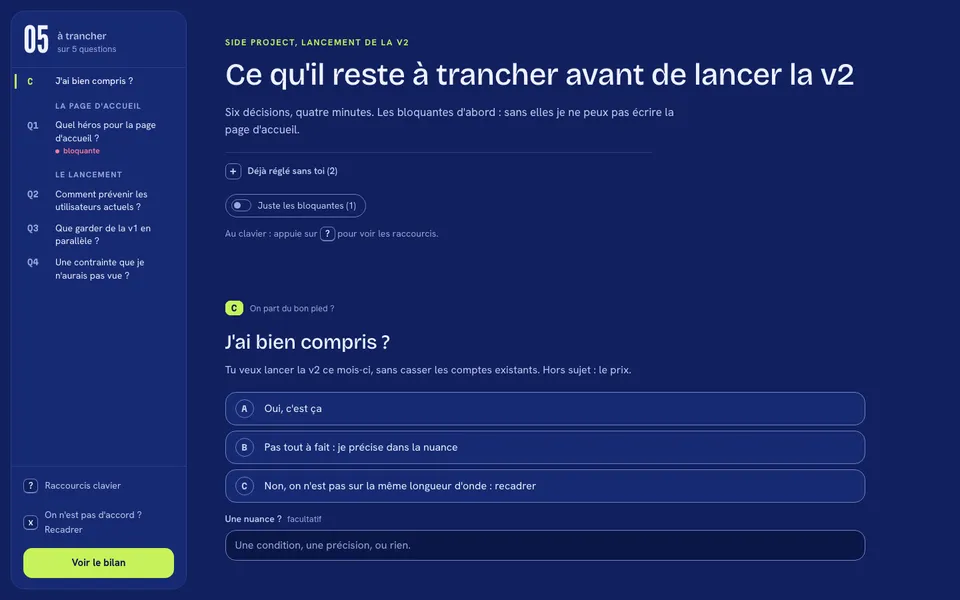
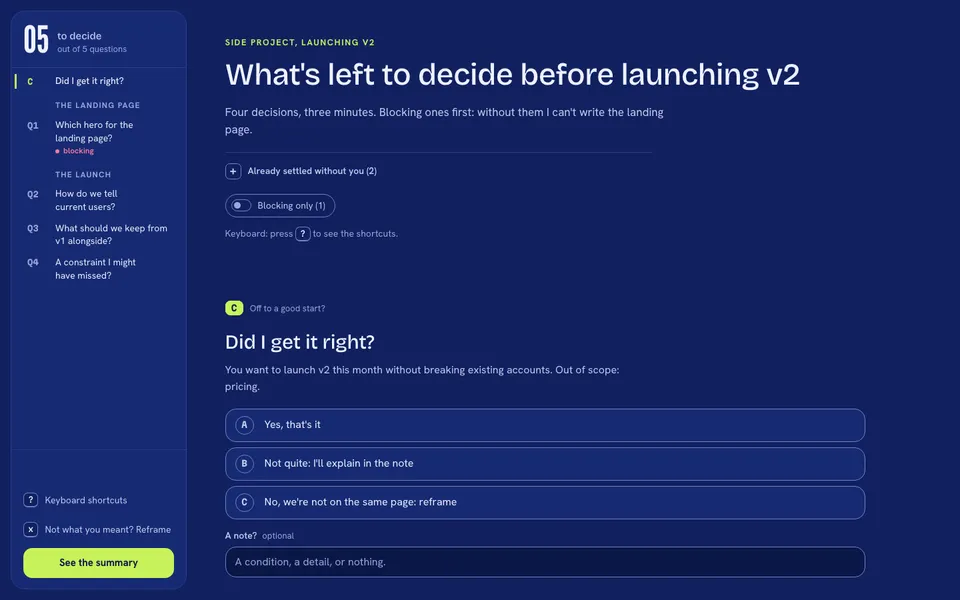
docs: English README and changelog, screenshots from an English quiz (1.8.0)

diff --git a/README.md b/README.md
@@ -2,119 +2,122 @@
 
 # /quizz
 
-**Les questions en attente deviennent un quiz cliquable. Claude applique tes réponses.**
+**Pending questions become a clickable quiz. Claude applies your answers.**
 
-Un plugin Claude Code : au lieu d'un pavé de questions dans le terminal, Claude publie une page où tu tranches en quelques clics, avec ses recos, ce que chaque choix implique, et des visuels rendus pour de vrai.
+A Claude Code plugin: instead of a wall of questions in the terminal, Claude publishes a page where you decide in a few clicks, with its recommendations, what each choice implies, and visuals that are actually rendered.
 
 [![version](https://img.shields.io/github/v/release/AThevon/quizz?label=version&color=7f8cff&style=flat-square)](https://github.com/AThevon/quizz/releases)
-[![licence](https://img.shields.io/github/license/AThevon/quizz?label=licence&color=7f8cff&style=flat-square)](LICENSE)
+[![license](https://img.shields.io/github/license/AThevon/quizz?label=license&color=7f8cff&style=flat-square)](LICENSE)
 [![Claude Code](https://img.shields.io/badge/Claude%20Code-plugin-d97757?style=flat-square)](https://docs.claude.com/en/docs/claude-code/plugins)
-[![artefacts](https://img.shields.io/badge/claude.ai-artefacts-1f2440?style=flat-square)](https://claude.ai)
-[![python](https://img.shields.io/badge/python-3%2C%20sans%20d%C3%A9pendance-3776ab?style=flat-square)](#prérequis)
-[![thèmes](https://img.shields.io/badge/th%C3%A8mes-5%20livr%C3%A9s-ff86b4?style=flat-square)](#thèmes)
-[![dernier commit](https://img.shields.io/github/last-commit/AThevon/quizz?label=dernier%20commit&color=33c2a4&style=flat-square)](https://github.com/AThevon/quizz/commits/main)
+[![artifacts](https://img.shields.io/badge/claude.ai-artifacts-1f2440?style=flat-square)](https://claude.ai)
+[![python](https://img.shields.io/badge/python-3%2C%20no%20dependencies-3776ab?style=flat-square)](#requirements)
+[![themes](https://img.shields.io/badge/themes-5%20built%20in-ff86b4?style=flat-square)](#themes)
+[![interface](https://img.shields.io/badge/interface-English%20%7C%20French-33c2a4?style=flat-square)](#in-the-page)
+[![last commit](https://img.shields.io/github/last-commit/AThevon/quizz?label=last%20commit&color=33c2a4&style=flat-square)](https://github.com/AThevon/quizz/commits/main)
 
-<img src="assets/readme/hero-homie.webp" alt="Un quiz /quizz dans le thème homie : le sommaire à gauche, une question avec deux variantes de page d'accueil dessinées, la reco de Claude." width="900">
+<img src="assets/readme/hero-homie.webp" alt="A /quizz quiz in the homie theme: the question overview on the left, a question with two drawn landing page variants, Claude's pick." width="900">
 
 </div>
 
-## Pourquoi
+## Why
 
-Quand une tâche a cinq décisions en suspens, les poser dans le terminal donne un pavé qu'on lit en diagonale. `/quizz` en fait une page : une question par décision, des options courtes, la reco de Claude, et ce qu'un choix coûte avant que tu le prennes. Tu réponds en deux minutes, Claude relit, applique, et écrit dans la page ce qu'il a fait.
+When a task has five decisions pending, asking them in the terminal gives you a block of text you end up skimming. `/quizz` turns it into a page: one question per decision, short options, Claude's pick, and what a choice costs before you make it. You answer in two minutes, Claude reads your answers, applies them, and writes in the page what it did.
 
-Pour quatre questions ou moins, Claude les pose directement dans le terminal. Au-delà, ou dès qu'un choix se regarde (une maquette, une palette), il te propose un quiz.
+For four questions or fewer, Claude asks them right in the terminal. Beyond that, or as soon as a choice is something you need to look at (a mockup, a palette), it offers you a quiz.
 
-## Comment ça marche
+## How it works
 
-1. **Claude rassemble ce qui lui manque** : les choix qui lui reviennent pour avancer, groupés, les bloquants d'abord, chacun avec sa reco.
-2. **Il publie le quiz** dans un artefact claude.ai : tu cliques, tu nuances, tu laisses Claude trancher où ça t'est égal, puis « Envoyer mes réponses ».
-3. **Il applique** : il relit tes réponses depuis la page, fait le travail, et y écrit ce qu'il a appliqué, ses prédictions sur tes réponses et la suite possible.
+1. **Claude gathers what it's missing**: the choices it needs from you to move forward, grouped, blocking ones first, each with its pick.
+2. **It publishes the quiz** as a claude.ai artifact: you click, add a note where needed, leave it to Claude where you don't mind, then "Send my answers".
+3. **It applies**: it reads your answers back from the page, does the work, and writes there what it applied, its predictions about your answers and what could come next.
 
-## Installer
+## Install
 
-Dans Claude Code :
+In Claude Code:
 
 ```
 /plugin marketplace add AThevon/quizz
 /plugin install quizz@quizz
 ```
 
-Puis relance Claude Code (ou `/reload-plugins`). La première fois qu'un quiz s'ouvre, claude.ai demande l'accord pour que la page puisse poser des questions à Claude : accepte.
+Then restart Claude Code (or `/reload-plugins`). The first time a quiz opens, claude.ai asks for permission to let the page ask Claude questions: accept.
 
-Pour recevoir les nouvelles versions : `/plugin`, onglet Marketplaces, `quizz`, Enable auto-update.
+To get new versions: `/plugin`, Marketplaces tab, `quizz`, Enable auto-update.
 
-## Commandes
+## Commands
 
-| commande | ce qu'elle fait |
+| command | what it does |
 |---|---|
-| `/quizz` | un quiz sur les questions ouvertes de la session. Claude te le propose aussi tout seul quand il en a plusieurs |
-| `/quizz <sujet>` | un quiz sur un sujet précis |
-| « à plusieurs » | au lancement ou plus tard : le quiz devient partageable, avec relecture et arbitrage des divergences |
-| `/quizz thème` | choisis l'apparence de tes quiz parmi les thèmes livrés, sur un aperçu |
-| `/quizz thème <description>` | Claude te propose trois thèmes sur mesure, tu gardes celui qui te plaît |
+| `/quizz` | a quiz on the open questions of the session. Claude also offers it on its own when it has several |
+| `/quizz <topic>` | a quiz on a specific topic |
+| "with others" | at launch or later: the quiz becomes shareable, with review and settling of disagreements |
+| `/quizz theme` | pick how your quizzes look among the built-in themes, from a preview |
+| `/quizz theme <description>` | Claude suggests three custom themes, you keep the one you like |
 
-## Dans la page
+## In the page
 
-**Répondre**
-- Une réponse en un clic, une nuance si besoin, « À toi de voir » pour laisser Claude trancher, « J'y tiens / Peu importe ».
-- Des visuels quand la question se regarde : Claude dessine les variantes (maquette, palette, mise en page, schéma), rendues pour de vrai sur chaque option, ou y met une capture. Chacun garde sa forme, un clic l'agrandit. Avant de publier, Claude les rend dans Chrome sans écran et mesure ce qui cloche (débordement, texte coupé, contraste).
-- Un sommaire qui montre ce qui reste à trancher, avec un seul signal pour ce qui demande ton attention.
-- Des questions qui apparaissent selon tes réponses, des questions bloquantes, et le mode « Juste les bloquantes ».
-- Tout au clavier : `a` `b` `c` pour choisir, `r` pour la reco, `j` `k` pour avancer, `?` pour l'aide.
+The quiz is written in your language. The page interface exists in English and in French: Claude sets it from the language you use with it.
 
-**Comprendre**
-- Creuser (`q`) : demande à Claude d'expliquer une question sans quitter la page. Sa réponse s'écrit mot à mot, mise en page, puis se copie.
-- Recadrer (`x`) : si le quiz part de travers, dis ce qui cloche, Claude réécrit les questions.
-- Des messages prêts à copier (Slack, mail, DM) quand une décision appelle un message, dans ton ton. Rien n'est envoyé à ta place.
+**Answering**
+- An answer in one click, a note if needed, "Your call" to let Claude decide, "Matters to me / Either way".
+- Visuals when the question is something to look at: Claude draws the variants (mockup, palette, layout, diagram), rendered for real on each option, or adds a screenshot. Each keeps its shape, a click enlarges it. Before publishing, Claude renders them in headless Chrome and measures what's off (overflow, clipped text, contrast).
+- An overview showing what's left to decide, with a single signal for what needs your attention.
+- Questions that appear depending on your answers, blocking questions, and a "Blocking only" mode.
+- Everything from the keyboard: `a` `b` `c` to choose, `r` for the pick, `j` `k` to move, `?` for help.
 
-**Après l'envoi**
-- Ce que Claude a appliqué, ses prédictions sur tes réponses, et « Approfondir » pour le tour suivant.
-- Un registre des décisions commun à tous tes projets (son lien vit dans `~/.claude/quizz-registre.json`).
+**Understanding**
+- Dig in (`q`): ask Claude to explain a question without leaving the page. Its answer streams in word by word, formatted, then can be copied.
+- Reframe (`x`): if the quiz goes off track, say what's off and Claude rewrites the questions.
+- Ready-to-copy messages (Slack, email, DM) when a decision calls for one, in your tone. Nothing is sent for you.
 
-## À plusieurs
+**After sending**
+- What Claude applied, its predictions about your answers, and "Go deeper" for the next round.
+- A decision log shared by all your projects (its link lives in `~/.claude/quizz-registre.json`).
 
-Dis « à plusieurs » et ça devient une sorte de prompting multijoueur. Les questions viennent de l'agent qui a le contexte (le code, tes outils) et qui implémentera ensuite : ce qui lui manque, ce sont les choix, et on peut être plusieurs à les lui donner.
+## With others
 
-- Tu partages le lien (droit Contributeur). Les autres relisent tes choix et ne répondent que là où ils ne sont pas d'accord : une question laissée vide vaut accord.
-- Quand quelqu'un choisit une option coûteuse ou propose autre chose, la page lui dit avant l'envoi ce que ça demande (léger, moyen, lourd), sans jamais bloquer.
-- Tu règles chaque divergence dans la page (garder ta réponse, retenir la leur, une synthèse de Claude, ou à discuter), puis « Appliquer » : c'est toujours toi qui lances l'implémentation.
+Say "with others" and it becomes a kind of multiplayer prompting. The questions come from the agent that has the context (the code, your tools) and will implement afterwards: what it lacks are the choices, and several people can give them.
 
-Pour répondre à un quiz qu'on te partage, rien à installer : le lien suffit, connecté à claude.ai.
+- You share the link (Contributor access). The others review your choices and only answer where they disagree: a question left blank counts as agreement.
+- When someone picks a costly option or suggests something else, the page tells them before sending what it would take (light, medium, heavy), without ever blocking.
+- You settle each disagreement in the page (keep your answer, go with theirs, a synthesis from Claude, or to discuss), then "Apply": you're always the one who starts the implementation.
 
-## Thèmes
+To answer a quiz someone shares with you, there's nothing to install: the link is enough, signed in to claude.ai.
 
-Cinq thèmes livrés, en clair et en sombre quand le thème a les deux. La mise en page ne change jamais : seuls les couleurs, les polices, les arrondis, la densité et la matière bougent.
+## Themes
+
+Five built-in themes, light and dark when the theme has both. The layout never changes: only colors, fonts, corner radius, density and material move.
 
 <table>
   <tr>
-    <td width="50%"><img src="assets/readme/theme-homie.webp" alt="Le thème homie"><br><b>homie</b> : la bulle de verre de la suite Homie. Ciel pastel, panneaux de verre laiteux, très arrondi, Fredoka et Figtree.</td>
-    <td width="50%"><img src="assets/readme/theme-ardoise.webp" alt="Le thème ardoise"><br><b>ardoise</b> : le thème d'origine et celui par défaut. Ardoise foncée, un seul accent vert, tampons en Anton.</td>
+    <td width="50%"><img src="assets/readme/theme-homie.webp" alt="The homie theme"><br><b>homie</b>: the glass bubble of the Homie suite. Pastel sky, milky glass panels, very rounded, Fredoka and Figtree.</td>
+    <td width="50%"><img src="assets/readme/theme-ardoise.webp" alt="The ardoise theme"><br><b>ardoise</b>: the original theme and the default one. Dark slate, a single green accent, stamps in Anton.</td>
   </tr>
   <tr>
-    <td><img src="assets/readme/theme-papier.webp" alt="Le thème papier"><br><b>papier</b> : gris papier et encre bleu-vert, aéré, fait pour lire longtemps.</td>
-    <td><img src="assets/readme/theme-cobalt.webp" alt="Le thème cobalt"><br><b>cobalt</b> : bleu cobalt profond, accent chartreuse, angles doux.</td>
+    <td><img src="assets/readme/theme-papier.webp" alt="The papier theme"><br><b>papier</b>: paper grey and blue-green ink, airy, made for reading at length.</td>
+    <td><img src="assets/readme/theme-cobalt.webp" alt="The cobalt theme"><br><b>cobalt</b>: deep cobalt blue, chartreuse accent, soft corners.</td>
   </tr>
   <tr>
-    <td><img src="assets/readme/theme-signal.webp" alt="Le thème signal"><br><b>signal</b> : blanc, noir et orange de balisage, compact, pour les quiz courts.</td>
+    <td><img src="assets/readme/theme-signal.webp" alt="The signal theme"><br><b>signal</b>: white, black and safety orange, compact, for short quizzes.</td>
     <td>
-      <b>Changer de thème</b><br><br>
-      <code>/quizz thème</code> : un aperçu des thèmes livrés, tu choisis.<br><br>
-      <code>/quizz thème sombre, bleu nuit, très arrondi</code> : trois propositions sur mesure.<br><br>
-      Ton choix vit dans <code>~/.claude/quizz-theme.json</code> et vaut pour tous tes quiz. La page le rappelle dans son aide <code>?</code>.
+      <b>Changing the theme</b><br><br>
+      <code>/quizz theme</code>: a preview of the built-in themes, you choose.<br><br>
+      <code>/quizz theme dark, midnight blue, very rounded</code>: three custom suggestions.<br><br>
+      Your choice lives in <code>~/.claude/quizz-theme.json</code> and applies to all your quizzes. The page reminds you of it in its <code>?</code> help.
     </td>
   </tr>
 </table>
 
-Un thème perso part d'une base et ne donne que ce qui change. Le format complet est dans [`skills/quizz/references/themes.md`](skills/quizz/references/themes.md). La lisibilité est garantie au build : les couleurs trop pâles sont corrigées juste assez, en gardant leur teinte.
+A custom theme starts from a base and only gives what changes. The full format is in [`skills/quizz/references/themes.md`](skills/quizz/references/themes.md). Readability is guaranteed at build time: colors that are too faint are corrected just enough, keeping their hue.
 
-## Prérequis
+## Requirements
 
-- Claude Code récent, connecté avec un compte claude.ai (les artefacts doivent être disponibles sur ton compte). Pour lancer tes propres quiz, il faut Claude Code : le terminal ou l'onglet Code de l'app Claude desktop, pas le chat claude.ai.
-- `python3`, bibliothèque standard uniquement.
-- Chrome ou Chromium pour vérifier les visuels (facultatif ; `QUIZZ_CHROME` pour en désigner un).
+- A recent Claude Code, signed in with a claude.ai account (artifacts must be available on your account). To start your own quizzes you need Claude Code: the terminal or the Code tab of the Claude desktop app, not the claude.ai chat.
+- `python3`, standard library only.
+- Chrome or Chromium to check the visuals (optional; `QUIZZ_CHROME` to point to one).
 
-Si tu avais installé une ancienne version à la main dans `~/.claude/skills/quizz`, supprime ce dossier : sinon deux `/quizz` se concurrencent.
+If you installed an old version by hand in `~/.claude/skills/quizz`, delete that folder: otherwise two `/quizz` compete.
 
-## Licence
+## License
 
-[MIT](LICENSE), par Adrien Thevon.
+[MIT](LICENSE), by Adrien Thevon.

diff --git a/CHANGELOG.md b/CHANGELOG.md
@@ -1,30 +1,37 @@
 # Changelog
 
-Les versions suivent [SemVer](https://semver.org/lang/fr/). Le détail de chaque version est sur la page [Releases](https://github.com/AThevon/quizz/releases).
+Versions follow [SemVer](https://semver.org/). Details for each version are on the [Releases](https://github.com/AThevon/quizz/releases) page.
 
-## 1.7.1 (21/11/2026)
+## 1.8.0 (2026-11-21)
 
-- README refait : badges, captures du quiz, galerie des cinq thèmes, commandes en tableau.
-- Ce changelog, et un manifeste de plugin plus complet (page d'accueil, mots-clés).
+- The quiz interface now exists in English: a quiz with `"langue": "en"` gets English buttons, help, overview, summary, Dig in, Reframe, save states, dates and the prompts sent to the in-page Claude. Claude writes the quiz in your language and sets the field when you talk to it in English. Without the field, the page is French and byte for byte the same as before.
+- Interface strings live in `skills/quizz/langues/` (one file per language), the template only holds `{{key}}` markers. `build.py` refuses an unknown language with a clear message.
+- The theme preview (`build.py --apercu --langue en`) and the one-time theme tip follow the language too.
+- README and changelog in English, screenshots retaken from an English quiz.
 
-## 1.7.0 (21/11/2026)
+## 1.7.1 (2026-11-21)
 
-- Les thèmes se découvrent : l'aide `?` de la page rappelle `/quizz thème` à l'auteur du quiz, et Claude le dit une fois, au premier quiz d'une personne qui n'a pas encore de thème.
+- Reworked README: badges, quiz screenshots, gallery of the five themes, commands as a table.
+- This changelog, and a fuller plugin manifest (homepage, keywords).
 
-## 1.6.0 (21/11/2026)
+## 1.7.0 (2026-11-21)
 
-- Nouveau thème livré `homie` : la bulle de verre de la suite Homie (ciel pastel, verre laiteux, bords blancs, très arrondi, Fredoka et Figtree, petite orbe Homie).
-- Les thèmes acceptent une `matiere` facultative (ciel, verre, flou, bord, formes, orbe, arrondis par niveau). Les quatre thèmes existants rendent à l'identique.
+- Themes are discoverable: the page's `?` help reminds the quiz author of `/quizz theme`, and Claude mentions it once, on the first quiz of someone who has no theme yet.
 
-## 1.5.1 (18/11/2026)
+## 1.6.0 (2026-11-21)
 
-- Panneau Creuser plus compact : demandes rapides sur une ligne, ta question et « Demander » côte à côte.
+- New built-in theme `homie`: the glass bubble of the Homie suite (pastel sky, milky glass, white edges, very rounded, Fredoka and Figtree, small Homie orb).
+- Themes accept an optional `matiere` (sky, glass, blur, edge, shapes, orb, radius per level). The four existing themes render identically.
 
-## 1.5.0 (16/11/2026)
+## 1.5.1 (2026-11-18)
 
-- Solo par défaut, à plusieurs sur demande.
-- Les visuels gardent leur forme (portrait, carré, paysage), orientation des photos respectée.
-- `verifie.py` : contrôle et capture de chaque visuel dans Chrome sans écran avant publication.
-- Un registre des décisions unique (`~/.claude/quizz-registre.json`).
+- More compact Dig in panel: quick asks on one line, your question and "Ask" side by side.
 
-Les versions antérieures n'ont pas de tag : voir l'historique des commits.
+## 1.5.0 (2026-11-16)
+
+- Solo by default, with others on request.
+- Visuals keep their shape (portrait, square, landscape), photo orientation respected.
+- `verifie.py`: checks and captures every visual in headless Chrome before publishing.
+- A single decision log (`~/.claude/quizz-registre.json`).
+
+Earlier versions have no tag: see the commit history.
